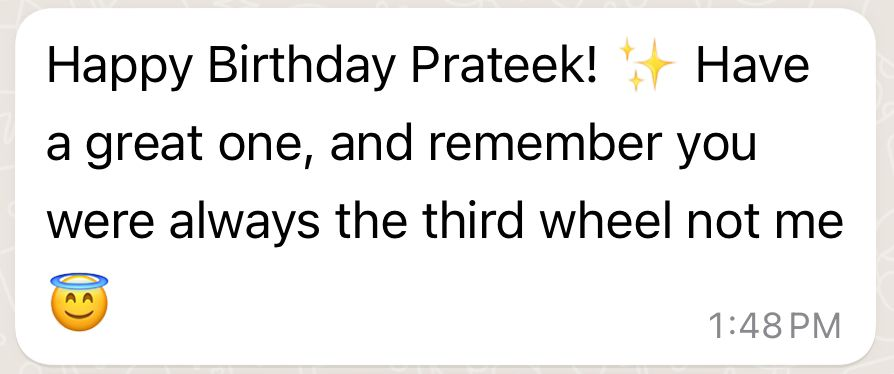
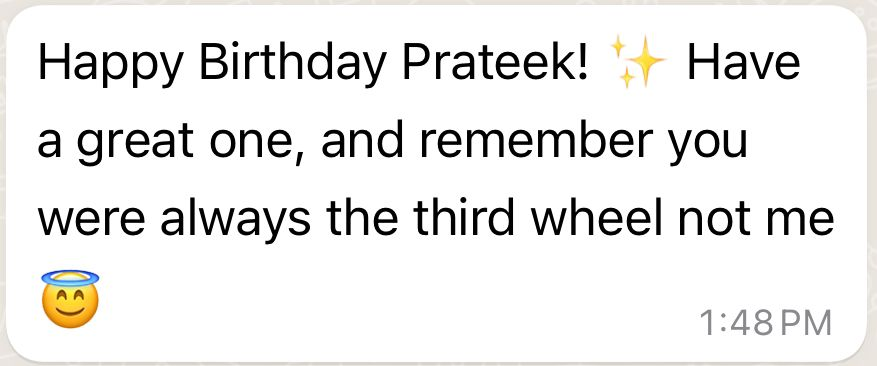
Mobile support

Changed region(s): [[0.0, 0.0301, 1.0, 0.9918], [0.5542, 0.3306, 0.862, 0.4508], [0.0308, 0.0, 0.9544, 0.0301]]

diff --git a/index.html b/index.html
@@ -6,7 +6,7 @@
   <meta charset="utf-8" />
   <meta http-equiv="X-UA-Compatible" content="IE=edge" />
   <!-- Mobile Metas -->
-  <meta name="viewport" content="width=device-width, initial-scale=1, shrink-to-fit=no" />
+  <meta name="viewport" content="width=device-width, initial-scale=1" />
   <!-- Site Metas -->
   <meta name="keywords" content="" />
   <meta name="description" content="" />
@@ -110,8 +110,8 @@
         </h2>
       </div>
 
-      <div class="us_container ">
-        <div class="row">
+      <div class="us_container">
+        <div class="row" id="feature">
           <div class="col-lg-3 col-md-6">
             <div class="box">
               <div class="img-box">
@@ -280,6 +280,11 @@
             </div>
 
             <div class="mySlides fade">
+                <img src="images/msg8.jpeg">
+                <div class="text">- Tanvi</div>
+            </div>
+
+            <div class="mySlides fade">
                 <img src="images/msg2.jpeg">
                 <div class="text">- Shubham</div>
             </div>
@@ -303,6 +308,7 @@
             <span class="dot" onclick="currentSlide(5, 'review')"></span>
             <span class="dot" onclick="currentSlide(6, 'review')"></span>
             <span class="dot" onclick="currentSlide(7, 'review')"></span>
+            <span class="dot" onclick="currentSlide(8, 'review')"></span>
         </div>
     </div>
     </section>
@@ -382,6 +388,7 @@
   <!-- footer section -->
 
   <script src="js/jquery-3.4.1.min.js"></script>
+  <script src="js/auto-change.js"></script>
   <script src="js/auto-scroll.js"></script>
   <script src="js/bootstrap.js"></script>
   <script src="js/script.js"></script>

diff --git a/css/style.css b/css/style.css
@@ -429,10 +429,11 @@ a:focus {
 
 /* Positioning the images in the slideshow */
 .review_section .container .slideshow-container .mySlides img {
-  width: auto; /* Allowing the image to resize proportionally */
-  height: 500px; /* Fixed height for the image */
-  display: block; /* Ensuring the image is displayed as a block element */
-  margin: 0 auto;
+  display: block; /* Ensure the image is displayed as a block element */
+  margin: 0 auto; /* Center the image horizontally */
+  max-width: 100%;
+  width: auto; /* Allow the width to adjust automatically */
+  height: 500px; /* Fixed height for desktop */
 }
 
 /* The dots/bullets/indicators */
